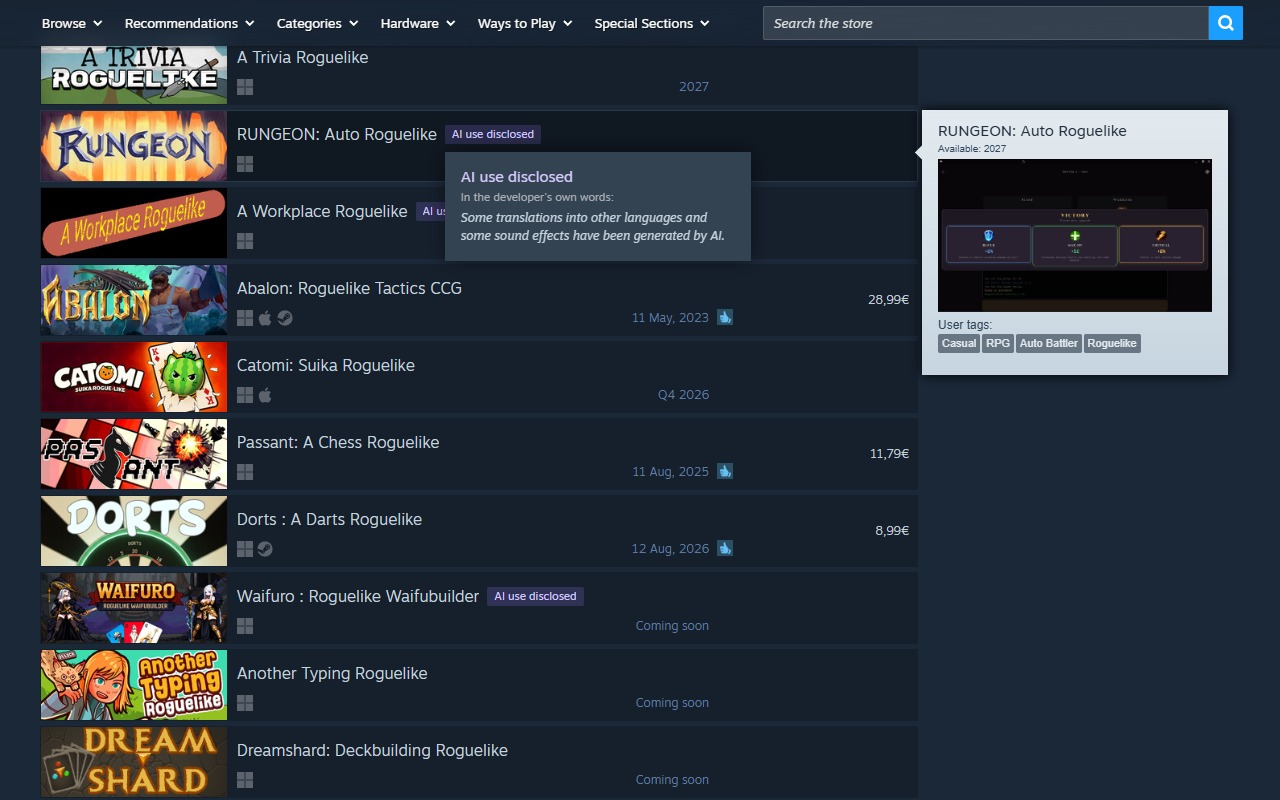
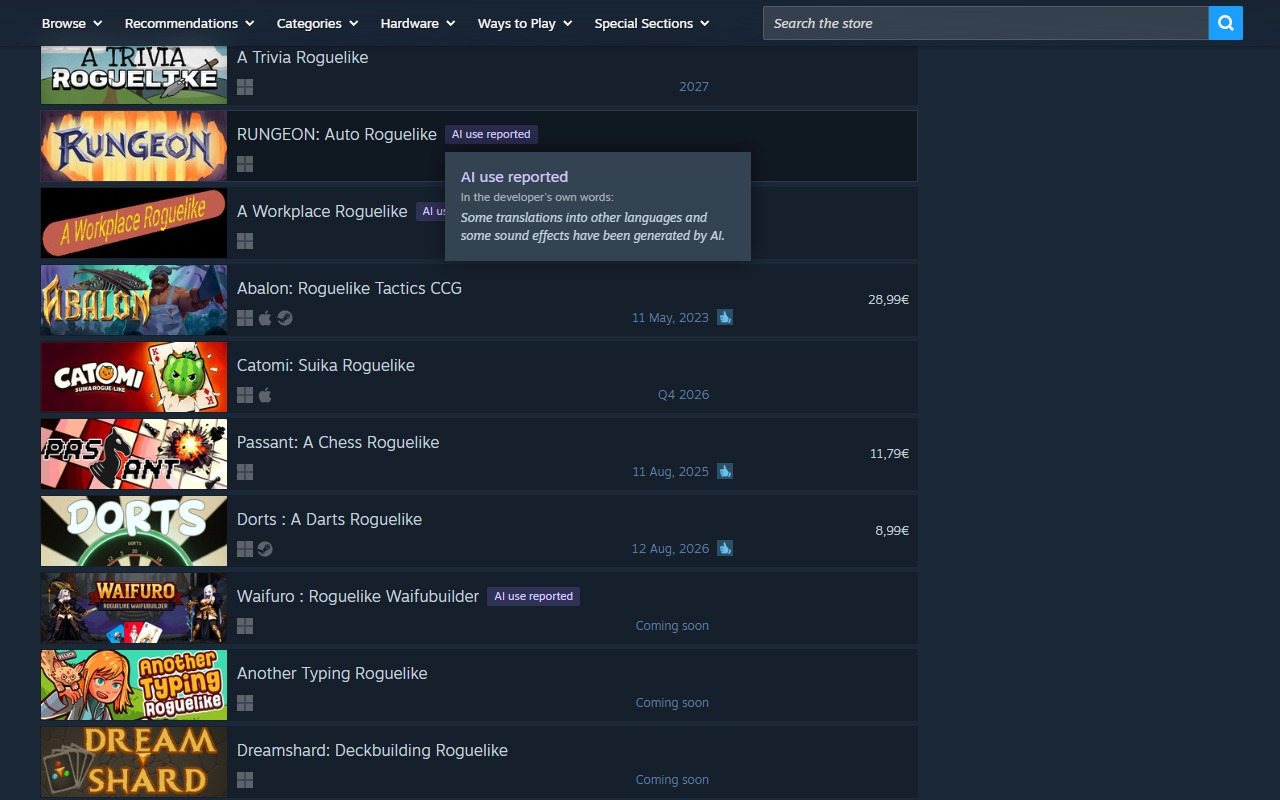
docs(store): refresh screenshots for the single "AI use reported" label
Recapture the seven store screenshots from the dev bundle built at main 59417c5, so they show the single label and the DLC badges, hover card, banner button and options of PR 42 and PR 43.

Update the capture note in the store listing and the alt text of the hover card screenshot in the README.

diff --git a/README.md b/README.md
@@ -42,7 +42,7 @@ In search results, rows of games whose developers reported AI use carry the badg
 
 On a game's page, a banner above the purchase box quotes the developer's report in their own words. "Stop marking this game" adds it to your allow-list. Its DLC rows get badges too.
 
-![A search row's badge with a panel open beside it that quotes the developer's report, next to Steam's own game hover](docs/store/screenshots/03-hover-card.jpg)
+![A search row's badge with a panel open below it that quotes the developer's report](docs/store/screenshots/03-hover-card.jpg)
 
 Hovering or tabbing to a badge opens a panel in the style of Steam's game hover, with the developer's own text and any AI service they named.
 

diff --git a/docs/journal/2026-10-22.md b/docs/journal/2026-10-22.md
@@ -1,0 +1,1 @@
+- Store screenshots recaptured from the dev bundle built at main 59417c5, with the single "AI use reported" label and the DLC badges, hover card, banner button and options of PR 42 and PR 43 (branch docs/refresh-screenshots).
